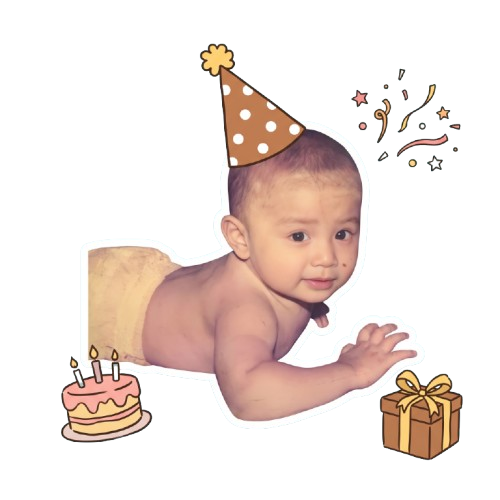
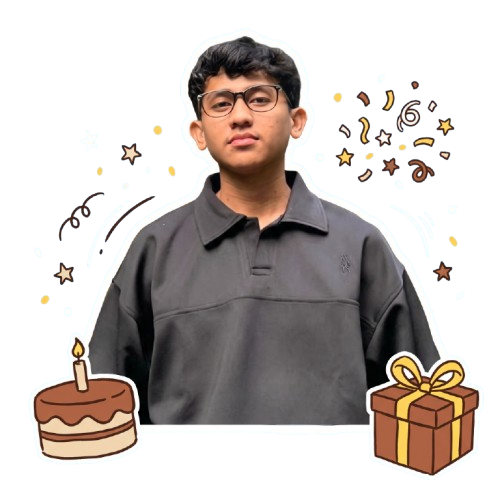
REVISI

diff --git a/index.html b/index.html
@@ -333,7 +333,7 @@
             <hr style="border: 0; border-top: 1px solid rgba(230, 168, 0, 0.3); margin-bottom: 20px;">
             <p style="font-size: 0.9rem; opacity: 0.8; margin-bottom: 5px;">Dari orang yang paling bersyukur memilikimu,
             </p>
-            <p class="sender-name aesthetic-font baby-pink-text" style="font-size: 2rem; margin-top: 5px;">Rena</p>
+            <p class="sender-name aesthetic-font baby-pink-text" style="font-size: 2rem; margin-top: 5px;">Arum Sari</p>
 
             <!-- Tombol Tiup Lilin -->
             <button id="btn-tiup-lilin" class="btn-tiup-lilin" onclick="bukaHalamanLilin()">🎂 Tiup Lilin</button>
